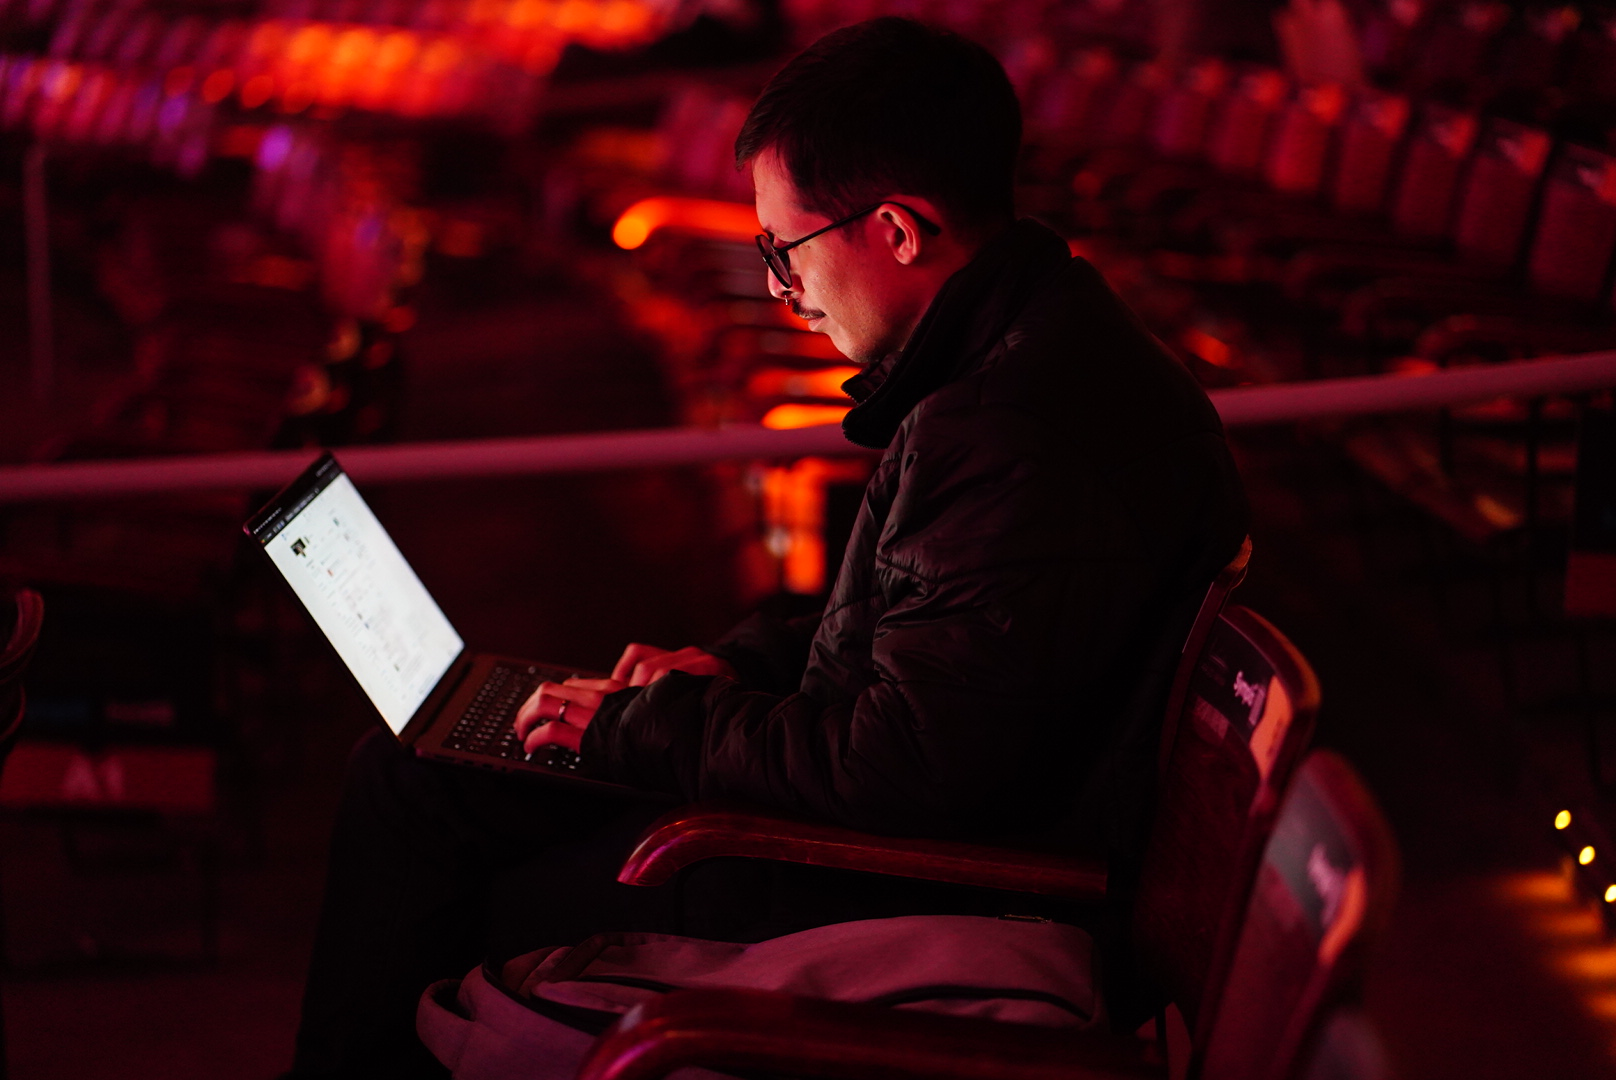
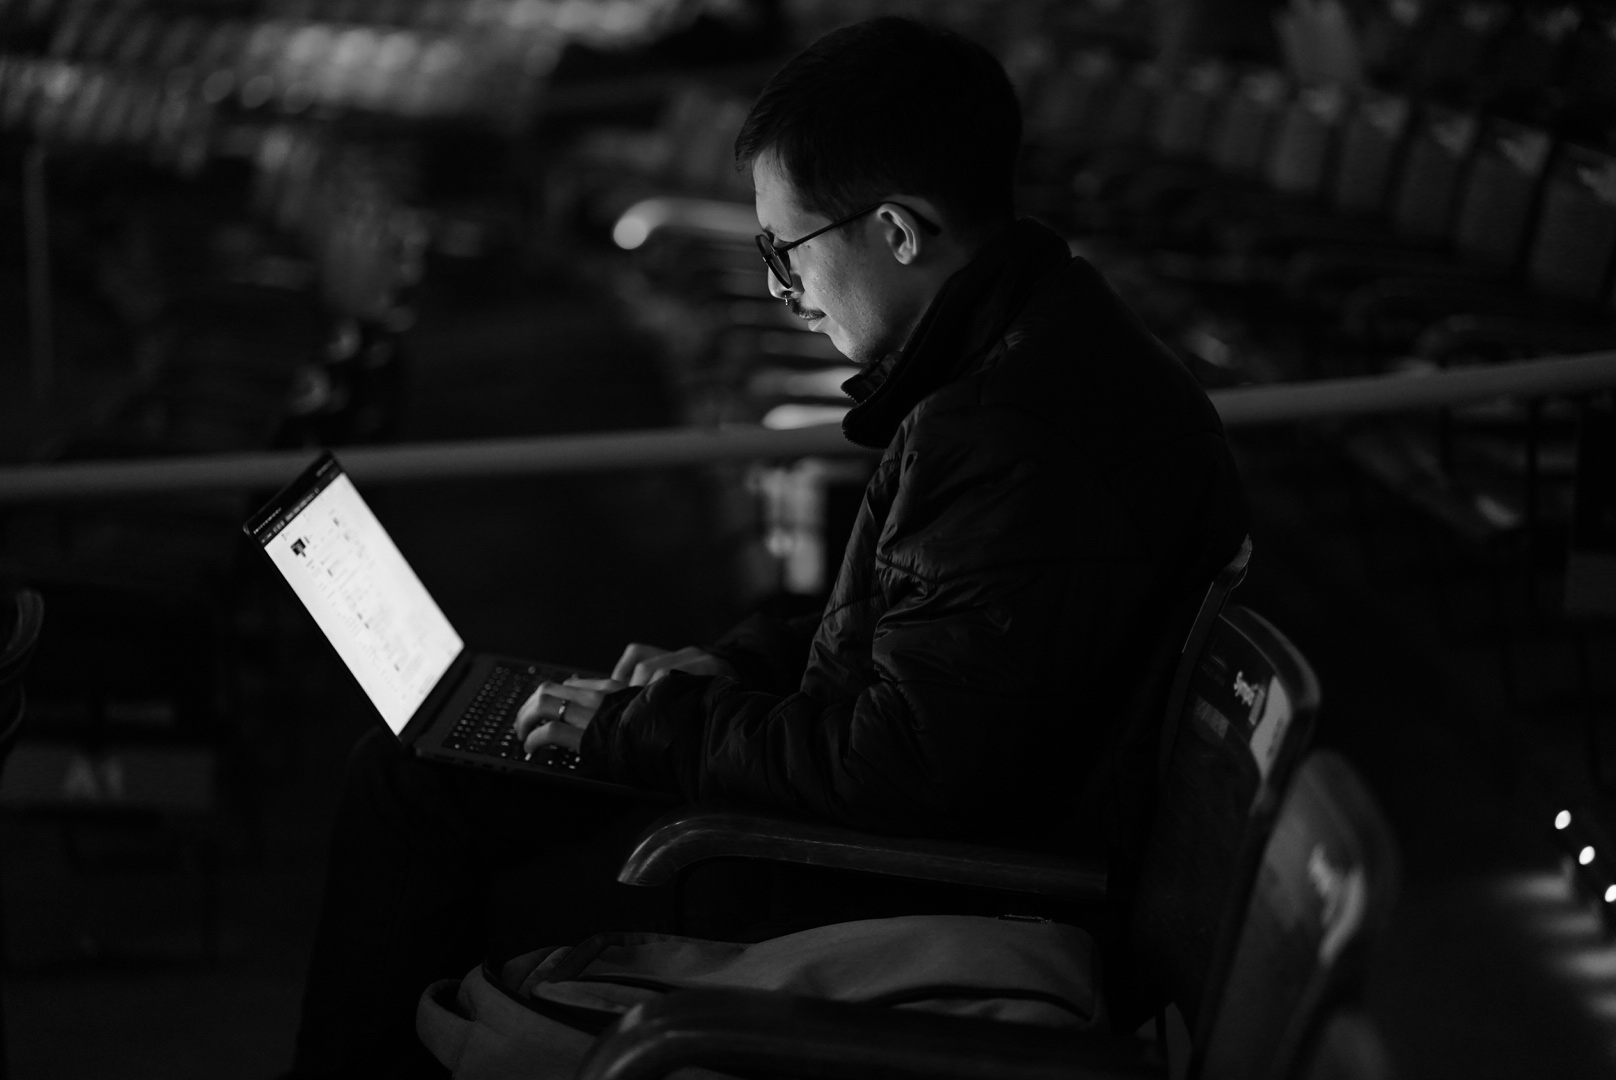
chore: Update header image styling

diff --git a/src/app/_components/header-image.tsx b/src/app/_components/header-image.tsx
@@ -2,7 +2,7 @@ import Image from 'next/image';
 
 export default function HeaderImage() {
   return (
-    <header className="aspect-video lg:aspect-auto lg:max-w-[calc(448px-32px)] lg:h-[calc(100%-32px)] mix-blend-luminosity lg:m-4 lg:rounded-2xl overflow-hidden w-screen relative after:content-[''] after:absolute after:bottom-0 after:inset-x-0 after:h-1/6 after:bg-gradient-to-b after:from-neutral-50/0 after:dark:from-neutral-950/0 after:to-neutral-50 after:dark:to-neutral-950 lg:after:bg-none">
+    <header className="aspect-video lg:aspect-auto lg:max-w-[calc(448px-32px)] lg:h-[calc(100%-32px)] lg:m-4 lg:rounded-2xl overflow-hidden w-screen relative after:content-[''] after:absolute after:bottom-0 after:inset-x-0 after:h-1/6 after:bg-gradient-to-b after:from-neutral-50/0 after:dark:from-neutral-950/0 after:to-neutral-50 after:dark:to-neutral-950 lg:after:bg-none">
       <Image src="/assets/braziljs.png" className="object-cover" alt="Brazil JS" priority fill />
     </header>
   );
